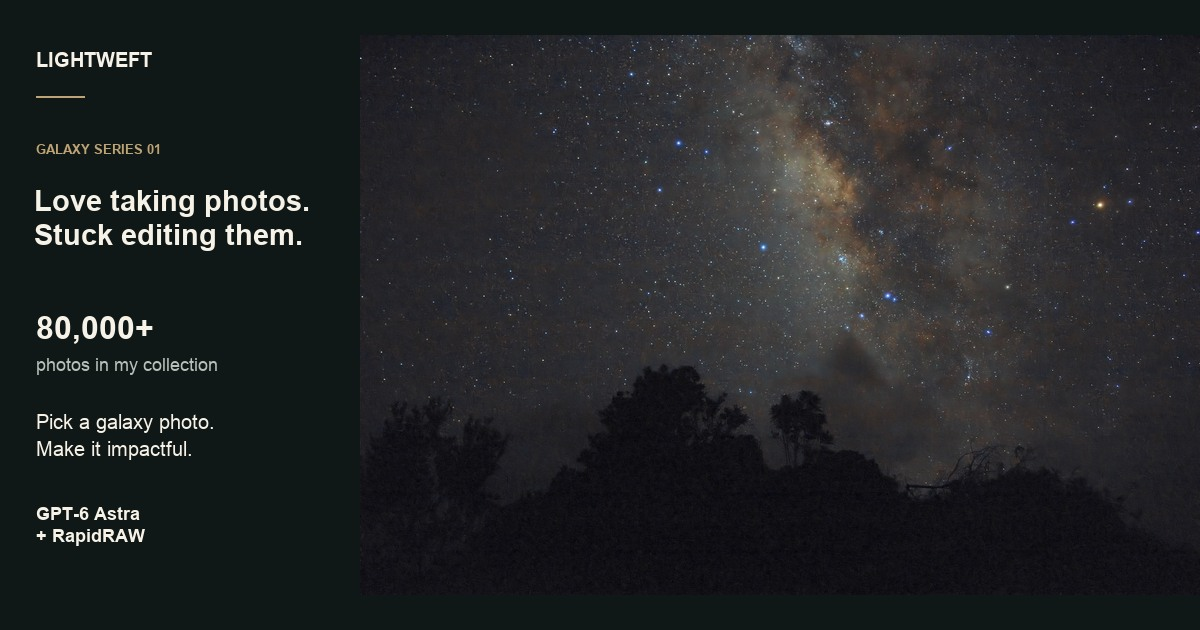
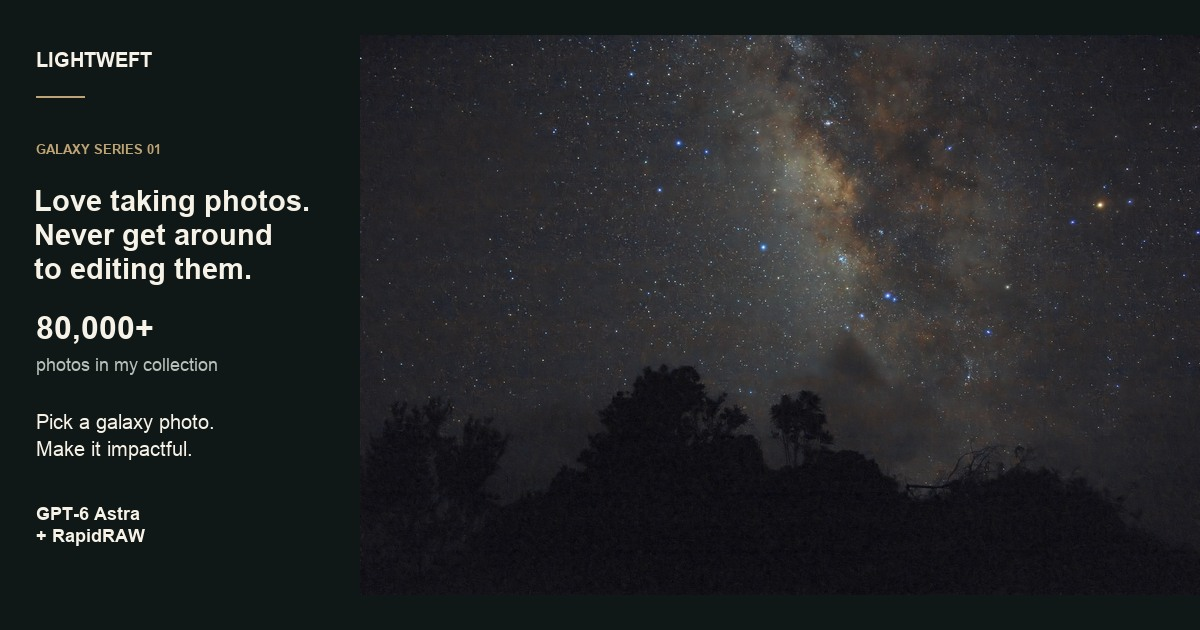
docs(showcase): make the editing backlog headline more natural

Changed region(s): [[0.0308, 0.3619, 0.2467, 0.4524]]

diff --git a/showcase/index.html b/showcase/index.html
@@ -4,20 +4,20 @@
   <meta charset="utf-8">
   <meta name="viewport" content="width=device-width, initial-scale=1">
   <meta name="theme-color" content="#0a1513">
-  <title>Lightweft — Love taking photos. Stuck editing them.</title>
-  <meta name="description" content="80,000+ photos in my collection, and editing is where I get stuck. I asked GPT-6 Astra to pick galaxy photographs and make an impactful edit. See what it chose and the results.">
+  <title>Lightweft — Love taking photos. Never get around to editing them.</title>
+  <meta name="description" content="80,000+ photos in my collection, and I keep putting off the editing. I asked GPT-6 Astra to pick galaxy photographs and make an impactful edit. See what it chose and the results.">
   <link rel="canonical" href="https://sheldonxxxx.github.io/Lightweft/">
   <meta property="og:type" content="website">
-  <meta property="og:title" content="Love taking photos. Stuck editing them.">
+  <meta property="og:title" content="Love taking photos. Never get around to editing them.">
   <meta property="og:description" content="From my 80,000+ photo collection, I asked GPT-6 Astra to pick a galaxy shot and make an impactful edit. Here is what it chose—and the result.">
   <meta property="og:url" content="https://sheldonxxxx.github.io/Lightweft/">
   <meta property="og:image" content="https://sheldonxxxx.github.io/Lightweft/assets/share-card.jpg">
-  <meta property="og:image:alt" content="Love taking photos. Stuck editing them. An 80,000+ photo collection, a galaxy-editing brief for GPT-6 Astra, and the finished Starlit Ridge photograph.">
+  <meta property="og:image:alt" content="Love taking photos. Never get around to editing them. An 80,000+ photo collection, a galaxy-editing brief for GPT-6 Astra, and the finished Starlit Ridge photograph.">
   <meta name="twitter:card" content="summary_large_image">
-  <meta name="twitter:title" content="Love taking photos. Stuck editing them.">
+  <meta name="twitter:title" content="Love taking photos. Never get around to editing them.">
   <meta name="twitter:description" content="80,000+ photos in my collection. I asked GPT-6 Astra to pick a galaxy shot and make an impactful edit. See the result.">
   <meta name="twitter:image" content="https://sheldonxxxx.github.io/Lightweft/assets/share-card.jpg">
-  <meta name="twitter:image:alt" content="Love taking photos. Stuck editing them. An 80,000+ photo collection, a galaxy-editing brief for GPT-6 Astra, and the finished Starlit Ridge photograph.">
+  <meta name="twitter:image:alt" content="Love taking photos. Never get around to editing them. An 80,000+ photo collection, a galaxy-editing brief for GPT-6 Astra, and the finished Starlit Ridge photograph.">
   <link rel="stylesheet" href="styles.css">
   <script src="app.js" defer></script>
 </head>
@@ -39,8 +39,8 @@
       <div class="hero-shade" aria-hidden="true"></div>
       <div class="hero-content">
         <p class="eyebrow">Galaxy series <span aria-hidden="true">/</span> <span id="hero-number">01</span></p>
-        <h1 id="hero-title">Love taking photos.<br>Stuck editing them.</h1>
-        <p class="hero-description"><strong>80,000+ photos</strong> in my collection. Editing is where I get stuck. So I asked <strong>GPT-6 Astra</strong> to pick a galaxy shot and make an impactful edit.</p>
+        <h1 id="hero-title">Love taking photos.<br>Never get around<br>to editing them.</h1>
+        <p class="hero-description"><strong>80,000+ photos</strong> in my collection. I keep putting off the editing. So I asked <strong>GPT-6 Astra</strong> to pick a galaxy shot and make an impactful edit.</p>
         <a class="hero-link" href="#photographs">See what it chose—and the result <span aria-hidden="true">↘</span></a>
       </div>
       <div class="hero-footnote"><span id="hero-count">02 photographs</span><span>Starlit Ridge · Edited</span></div>
